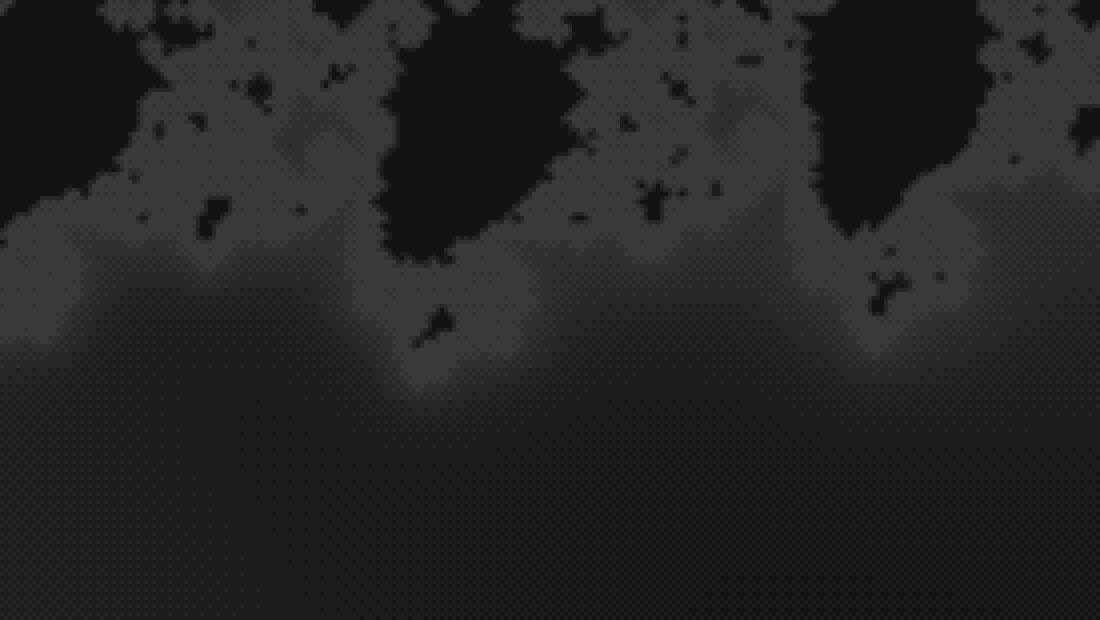
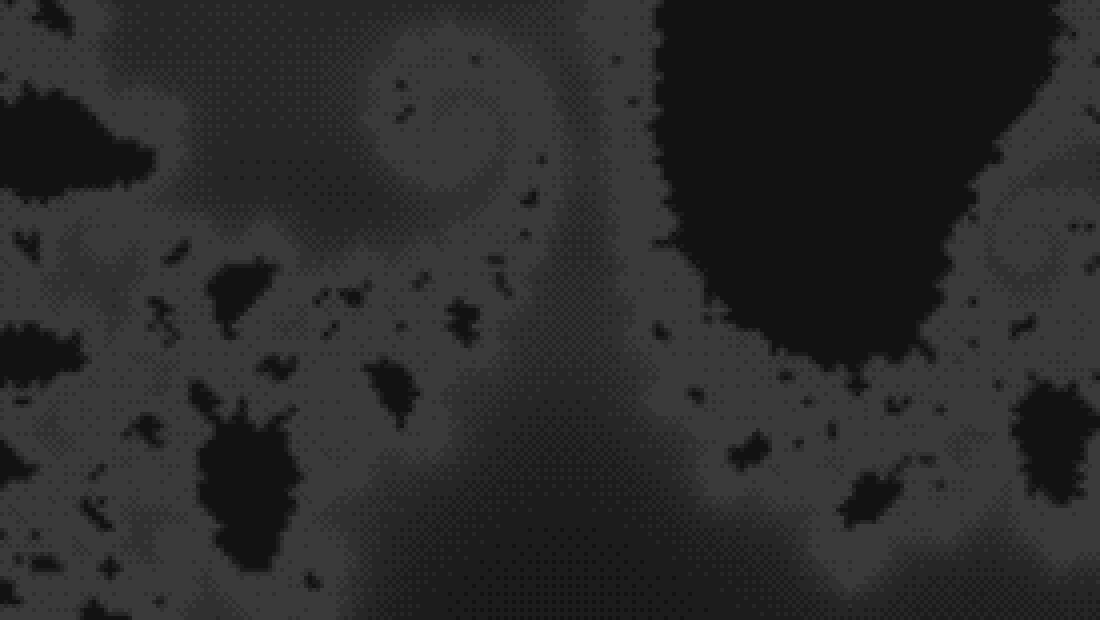
Take the floor fifteen thousand times deeper
`minSpan` was 1.5e-7, about 24 doublings below home, on the reasoning
that more depth costs iterations on every cell of every frame. That
reasoning was wrong. It is 1e-11 now, about 38 doublings.

DEPTH IS FREE PER FRAME

The budget a frame needs does not grow with depth. It is set by how much
boundary is in shot, not by magnification: holding the false-solid
fraction under 5% took between 2,000 and 3,200 iterations at 24
doublings, at 36 and at 48 alike. Flying the autopilot to each of those
floors and measuring what it actually renders says the same - cost
3.4-3.9 ms, false-solid 18-26%, contrast 0.30-0.35, flat all the way
down.

WHAT DOES BIND IS SUB-CELL PRECISION

The useful measure is how many representable doubles fit across one field
cell, because the distance estimate is a finite difference between cells
and needs room to work in. A coordinate of order 1 has neighbours 2.2e-16
away, so at 1e-11 a cell is about 570 doubles wide. At 44 doublings it is
9, and at 48 it is 1.

TWO METRICS MISSED IT, WHICH IS THE PART WORTH RECORDING

Counting adjacent cells that land on bit-identical escape counts reads
15% at 42 doublings and only reaches 79% at 51, so it looked as though
there were room down to the mid-forties. It is far too blunt: exact
equality is the last symptom, long after sub-cell structure has gone.

The field's standard deviation is no better. It reads 0.337 at a
44-doubling floor - a perfectly healthy number - because a large dark
[…]

diff --git a/src/mandelbrot.ts b/src/mandelbrot.ts
@@ -42,7 +42,9 @@
 // order 1, so the plane is resolvable down to roughly 1e-16 - and a *view* has
 // to be much wider than that or neighbouring cells land on the same number and
 // the picture goes blocky. `minSpan` is where that is called: past it, more
-// zoom is not more detail.
+// zoom is not more detail. It is a precision limit and nothing else - the
+// iteration budget a frame needs turns out not to grow with depth at all, which
+// is measured at the default.
 //
 // Coming back out is a pure function of the span rather than an animation of
 // its own:
@@ -253,11 +255,40 @@ export const MANDELBROT_DEFAULTS: MandelbrotParams = {
   homeX: -0.7,
   homeY: 0,
   homeSpan: 2.6,
-  // ~24 doublings below home. Double precision would allow nine or ten more,
-  // but each costs iterations on every cell of every frame, and the picture at
-  // 24 doublings is the same picture as at 34 - the set is not more detailed
-  // further down, only further down.
-  minSpan: 1.5e-7,
+  // ~38 doublings below home, and this was 1.5e-7 - fourteen doublings and a
+  // factor of fifteen thousand shallower - on the reasoning that more depth
+  // costs iterations on every cell of every frame. That reasoning was wrong,
+  // and measuring it is what showed so.
+  //
+  // The budget a frame needs does not grow with depth. It is set by how much
+  // boundary is in shot, not by magnification: holding the false-solid
+  // fraction under 5% took between 2,000 and 3,200 iterations at 24 doublings,
+  // at 36 and at 48 alike. Flying the autopilot to each of those floors says
+  // the same - cost 3.4-3.9 ms, false-solid 18-26%, contrast 0.30-0.35, flat
+  // all the way down.
+  //
+  // What binds is precision, and the useful measure of it is how many
+  // representable doubles fit across one field cell. A coordinate of order 1
+  // has neighbours 2.2e-16 away, so at this span a cell is about 700 doubles
+  // wide; at 44 doublings it is 9, and at 48 it is 1. The distance estimate is
+  // a finite difference between cells, so it needs sub-cell room to work in -
+  // and rendering the floor at 44 gives a soft-edged blob with no filigree in
+  // it at all.
+  //
+  // Which the obvious metric missed. Counting adjacent cells that land on
+  // bit-identical escape counts says 15% at 42 doublings and only reaches 79%
+  // at 51, so it looked as though there were room down to the mid-forties. It
+  // is far too blunt: exact equality is the last symptom, long after sub-cell
+  // structure has gone. The field's contrast is no better - it reads 0.337 at
+  // the 44-doubling floor, because a large dark region beside a large light one
+  // has plenty of contrast and no structure whatever. Looking at the frame is
+  // what settled it.
+  //
+  // The one real cost is time. A descent takes about 110 seconds now rather
+  // than 72, so the cycle is about half again as long - which for a background
+  // meant to go unnoticed is not obviously the wrong direction. Raise `speed`
+  // for the old cadence at the new depth.
+  minSpan: 1e-11,
   iterations: 90,
   iterationsPerDoubling: 12,
   maxIterations: 300,

diff --git a/demo/copy.ts b/demo/copy.ts
@@ -86,7 +86,10 @@ export const COPY: Record<string, Copy> = {
         'cell is correctly within a cell of the set and the frame is a flat grey - and the few stray dark cells in it ' +
         'score a <em>high</em> spread, so it is a feedback loop. Too little interior is open exterior with the set out ' +
         'of shot, which is exactly where removing the first two sends it.',
-      'It turns round at about 1e-7 because a double runs out - past that, neighbouring cells land on the same number. ' +
+      'It turns round at about 1e-11 because a double runs out - past that, neighbouring cells land on the same number, ' +
+        'and the estimate has no sub-cell room left to work in. Depth costs nothing per frame, as ' +
+        'it turns out: the iteration budget a frame needs is set by how much boundary is in shot rather than by how far ' +
+        'down it is, so it is the same at forty-eight doublings as at twenty-four. Only precision binds. ' +
         'The pull-out is a function of the span rather than an animation, so it leaves exactly where it was and ' +
         'arrives framed on the whole set, with the point it left holding still on screen the whole way.',
       'The view is a <strong>mass, not a lag</strong>: a critically damped spring with velocity as state, worked in ' +

diff --git a/demo/main.ts b/demo/main.ts
@@ -569,12 +569,12 @@ const MANDELBROT_DIALS: Dial[] = [
     key: 'minSpanLog',
     label: 'depth',
     min: 4,
-    max: 13,
+    max: 14,
     step: 0.25,
-    // Decades, because the useful range spans seven orders of magnitude and a
-    // linear slider cannot hold it. 7.25 is `MANDELBROT_DEFAULTS.minSpan`.
+    // Decades, because the useful range spans thirteen orders of magnitude and
+    // a linear slider cannot hold it.
     value: Math.round(Math.log10(MANDELBROT_DEFAULTS.homeSpan / MANDELBROT_DEFAULTS.minSpan) * 4) / 4,
-    note: 'decades below home - past ~13 a double gives out',
+    note: 'decades below home - past ~12 it goes soft',
   },
   { key: 'iterations', label: 'iterations', min: 30, max: 400, step: 10, value: MANDELBROT_DEFAULTS.iterations },
   {

diff --git a/docs/how-it-works.md b/docs/how-it-works.md
@@ -571,9 +571,38 @@ spend the rest of its life pulling out again.
 ### Why it turns round, and why the pull-out needed no animating
 
 A double holds about 16 significant digits and the coordinates are of order 1, so the plane runs out at about 1e-16 - and
-a view has to be far wider than that or neighbouring cells land on the same number. `minSpan` is 1.5e-7, about 24
-doublings below home, which is well short of that limit and set by iterations rather than by precision: each doubling
-costs budget on every cell of every frame.
+a view has to be far wider than that or neighbouring cells land on the same number. `minSpan` is **1e-11**, about 38
+doublings below home, and precision is the only thing that sets it.
+
+It was 1.5e-7 - fourteen doublings and a factor of fifteen thousand shallower - on the reasoning that depth costs
+iterations on every cell of every frame. **That reasoning was wrong.** The budget a frame needs does not grow with depth:
+it is set by how much boundary is in shot, not by magnification. Holding the false-solid fraction under 5% took between
+2,000 and 3,200 iterations at 24 doublings, at 36 and at 48 alike, and flying the autopilot to each of those floors and
+measuring what it renders says the same - cost 3.4-3.9 ms, false-solid 18-26%, contrast 0.30-0.35, flat all the way
+down.
+
+The useful measure of the precision that *does* bind is **how many representable doubles fit across one field cell**. The
+distance estimate is a finite difference between cells, so it needs sub-cell room to work in:
+
+| doublings | span | doubles per cell |
+| --- | --- | --- |
+| 24 | 1.5e-7 | 9,300,000 |
+| 36 | 3.8e-11 | 2,272 |
+| **38** | **1e-11** | **568** |
+| 40 | 2.4e-12 | 142 |
+| 44 | 1.5e-13 | 9 |
+| 48 | 9.2e-15 | 1 |
+
+Rendering the floor at 44 doublings gives a soft-edged blob with no filigree in it anywhere. 38 leaves real room.
+
+**Two metrics missed this, and it is worth knowing which.** Counting adjacent cells that land on bit-identical escape
+counts reads 15% at 42 doublings and only reaches 79% at 51 - far too blunt, because exact equality is the last symptom,
+long after sub-cell structure has gone. The field's standard deviation is no better: it reads **0.337** at the
+44-doubling floor, because a large dark region beside a large light one has plenty of contrast and no structure
+whatever. It was rendering the frame and looking at it that settled the number.
+
+The one real cost is time: a descent takes about 110 seconds rather than 72, so the cycle is about half again as long.
+`speed` buys the old cadence back at the new depth.
 
 Coming back out is a pure function of the span rather than an animation of its own:
 
